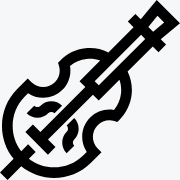
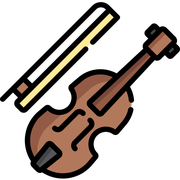
updates

diff --git a/static/style.css b/static/style.css
@@ -616,7 +616,7 @@ header {
 .header-brand {
   display: flex;
   align-items: center;
-  gap: 0.6rem;
+  gap: 0.45rem;
   min-width: 0;
 }
 

diff --git a/templates/base.html b/templates/base.html
@@ -86,7 +86,7 @@
     <div class="header-inner">
       <div class="header-brand">
         <span class="header-icon header-icon--fiddle" aria-hidden="true">
-          <img src="{{ url_for('static', filename='fiddle-svgrepo-com.svg') }}" alt="" class="header-fiddle-img" decoding="async" />
+          <img src="{{ url_for('static', filename='notion-fiddle.svg') }}" alt="" class="header-fiddle-img" decoding="async" />
         </span>
         <div class="header-title-group">
           <h1>Fiddle Practice</h1>